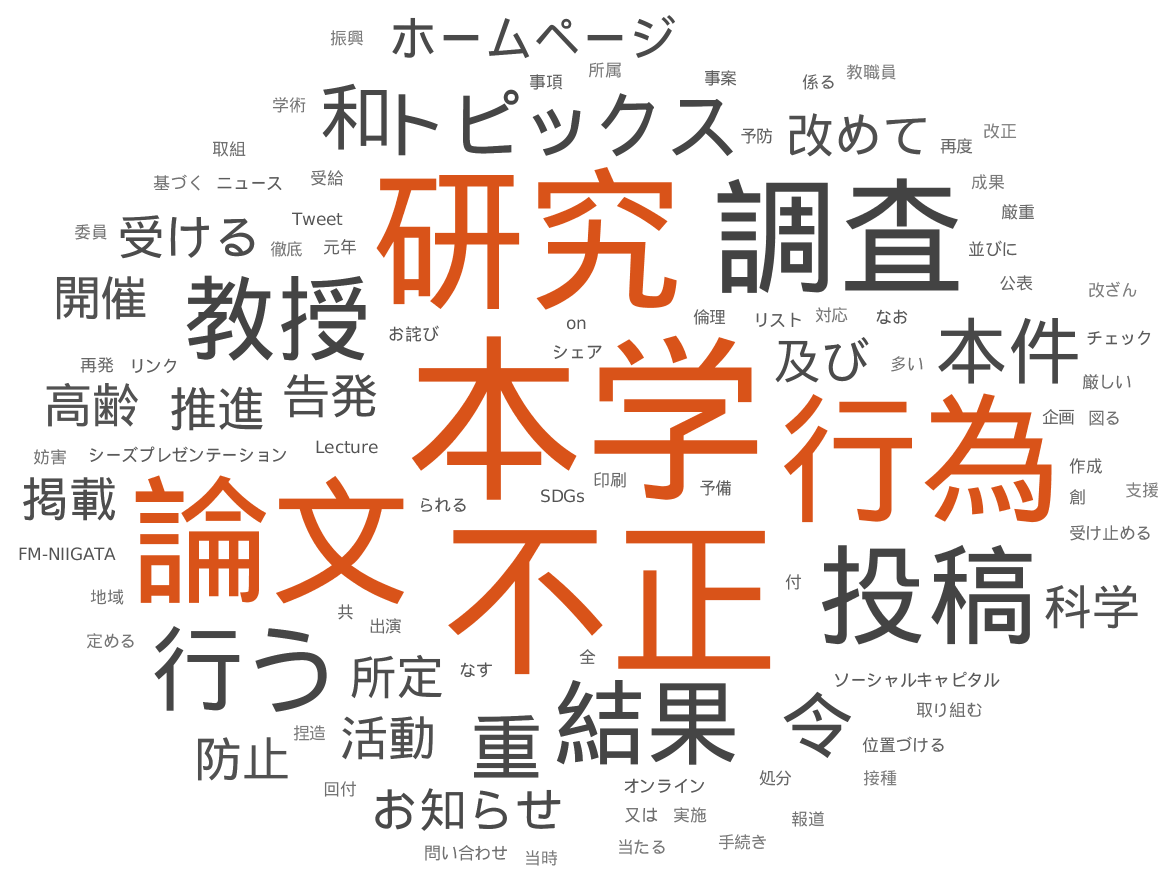
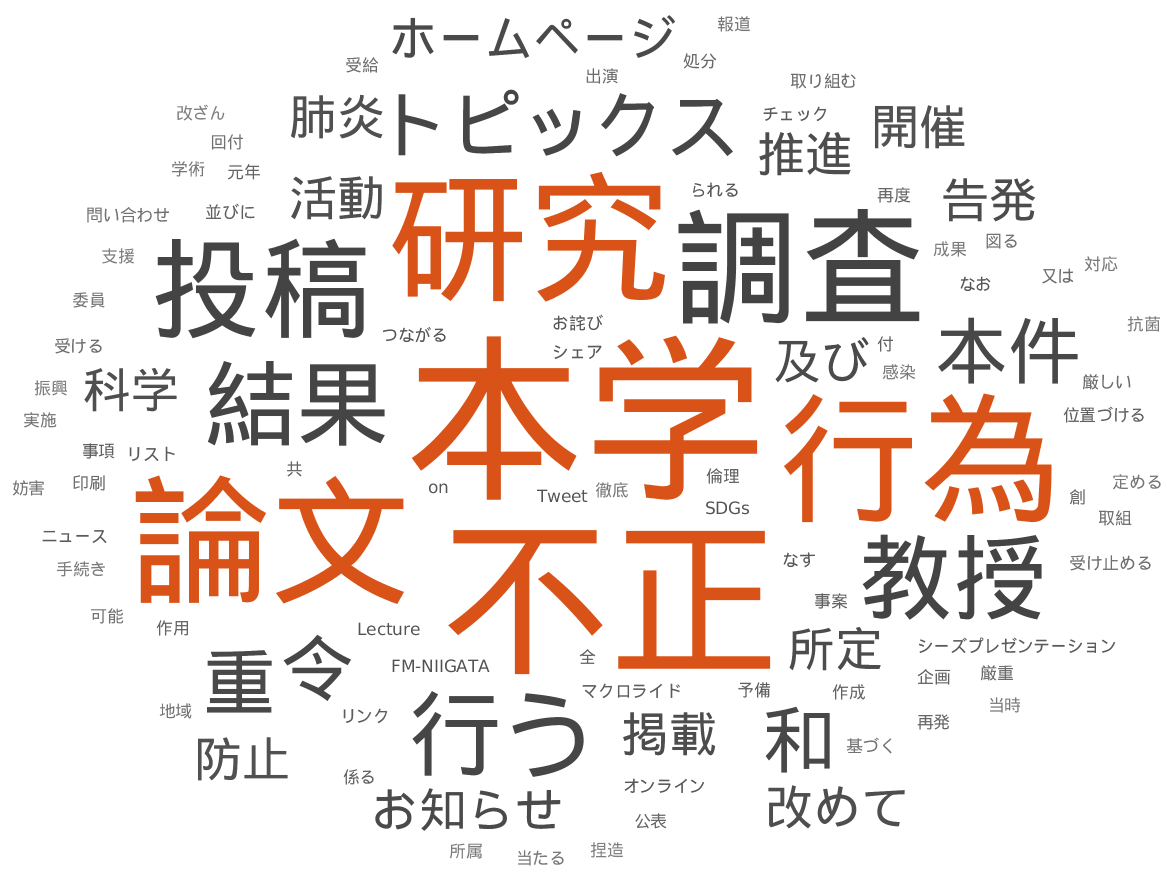
CI autogen [ci skip]

diff --git a/docs/_posts/2021-09-10-肺炎球菌感染症に対するマクロライド系抗菌薬の新たな作用を発見－新たな肺炎治療法の開発につながる可能性－.md b/docs/_posts/2021-09-10-肺炎球菌感染症に対するマクロライド系抗菌薬の新たな作用を発見－新たな肺炎治療法の開発につながる可能性－.md
@@ -1,0 +1,7 @@
+---
+layout: post
+title: 肺炎球菌感染症に対するマクロライド系抗菌薬の新たな作用を発見－新たな肺炎治療法の開発につながる可能性－
+---
+Autogenerated Word Cloud.
+Source\: [https://www.niigata-u.ac.jp/news/2021/93505/](https://www.niigata-u.ac.jp/news/2021/93505/)
+![WordCloud]({{ site.baseurl }}/assets/390c538b031291835ee7c58bd50b09f3.png)

diff --git a/docs/_posts/2021-09-10-【学生の皆さんへ】令和3年度第2学期における各授業科目の実施方法等について（2021年9月10日掲載）.md b/docs/_posts/2021-09-10-【学生の皆さんへ】令和3年度第2学期における各授業科目の実施方法等について（2021年9月10日掲載）.md
@@ -1,0 +1,7 @@
+---
+layout: post
+title: 【学生の皆さんへ】令和3年度第2学期における各授業科目の実施方法等について（2021年9月10日掲載）
+---
+Autogenerated Word Cloud.
+Source\: [https://www.niigata-u.ac.jp/information/2021/93550/](https://www.niigata-u.ac.jp/information/2021/93550/)
+![WordCloud]({{ site.baseurl }}/assets/cca89bb3c112238cff26e4f676d5934e.png)
